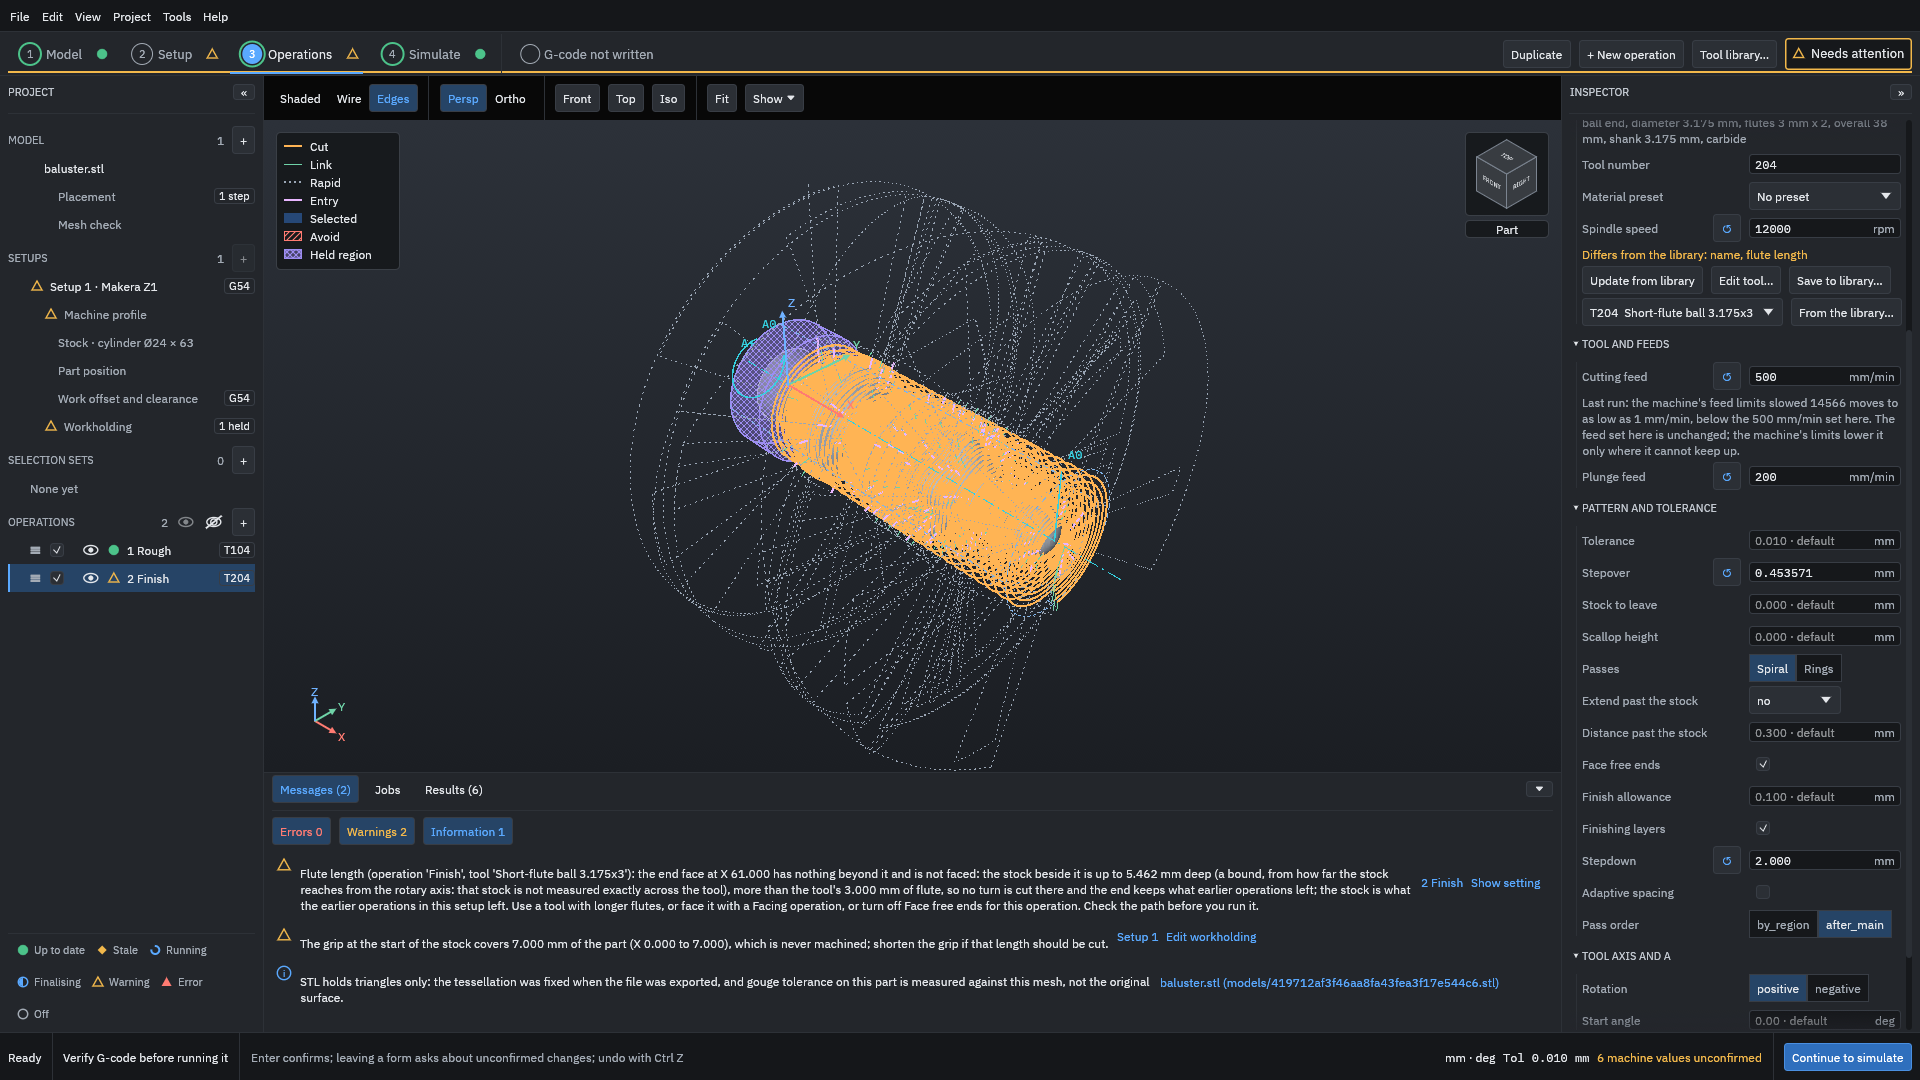
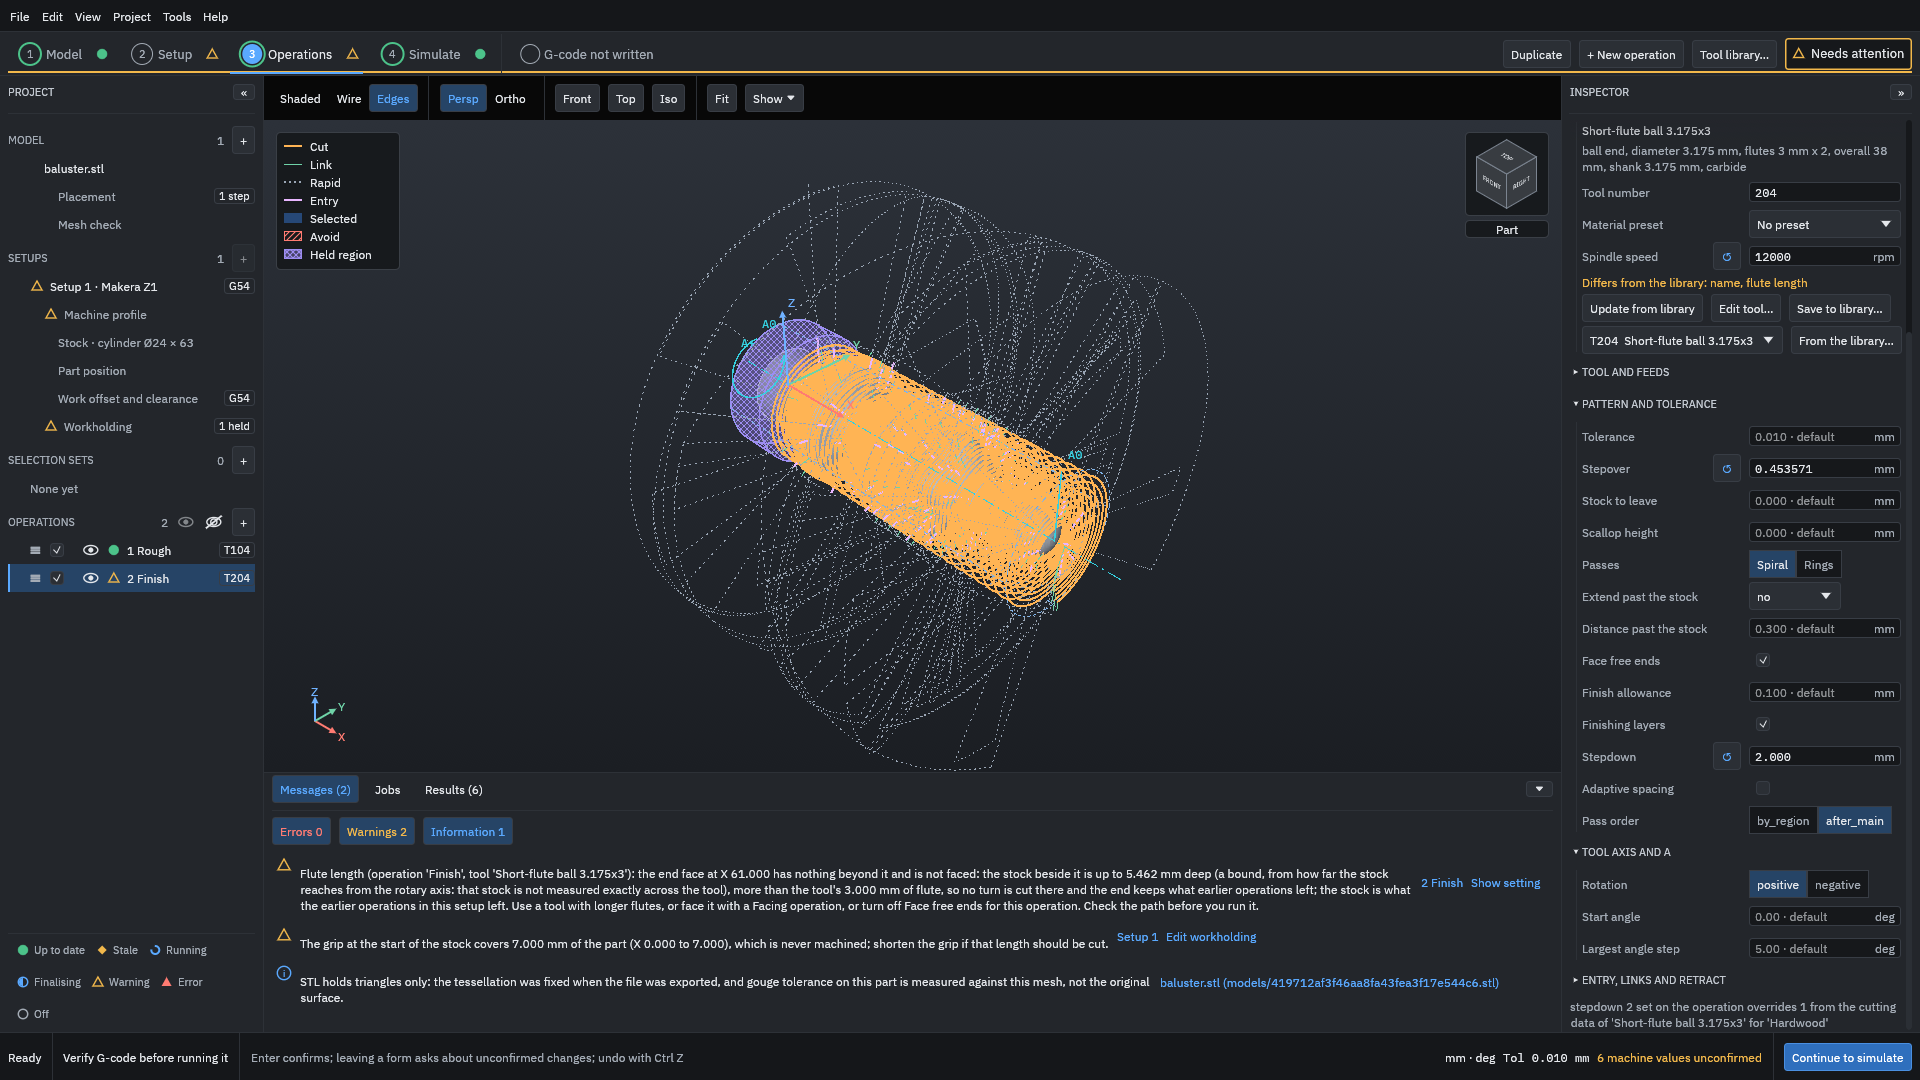
Lane EXAMPLES-C: flute example: untick Face free ends with Tool and feeds folded
Claude-Session: https://claude.ai/code/session_017vEio486gvooQqVzoMBL6x

Changed region(s): [[0.8125, 0.0917, 1.0, 0.9472]]

diff --git a/user-docs/tools/examples/flutes.py b/user-docs/tools/examples/flutes.py
@@ -40,10 +40,8 @@ def run(cap, work):
     cap.click(1855, 1057, GENERATE)
     cap.click(1622, 344, 1)                    # fold TOOL AND FEEDS: its feed-limit note is under review (#600)
     cap.shot("05-finishing-layers")
-    cap.click(1622, 344, 1)                    # open it again, so the positions below hold
-    cap.click(1763, 764, 1.5)                  # untick Face free ends
+    cap.click(1763, 668, 1.5)                  # untick Face free ends (where it is with TOOL AND FEEDS folded)
     cap.click(1855, 1057, GENERATE)
     cap.click(452, 789, 2)                     # Results
     cap.click(813, 831, 1)                     # Information off: warnings only (the feed-limit lines, #600)
-    cap.click(1622, 344, 1)                    # fold TOOL AND FEEDS (#600)
     cap.shot("06-face-free-ends-off")
